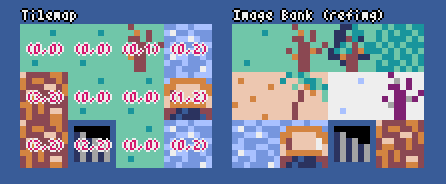
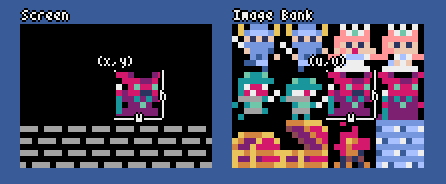
Fixed an instruction in the example #11

diff --git a/pyxel/examples/11_offscreen.py b/pyxel/examples/11_offscreen.py
@@ -69,7 +69,7 @@ def make_blt_figure():
     x = 116
     figure.blt(x, y, image2, 0, 0, image2.width, image2.height)
     text_with_border(figure, x + 1, y - 7, "Image Bank", col, bcol)
-    pset_with_border(figure, x + 47, y + 23, col, bcol)
+    text_with_border(figure, x + 38, y + 16, "(u,v)", col, bcol)
     draw_w_and_h(x, y)
 
     return figure

diff --git a/CHANGELOG.md b/CHANGELOG.md
@@ -1,5 +1,8 @@
 # Change Log
 
+## 1.5.7
+- Fixed an instruction in the example #11
+
 ## 1.5.6
 - Fixed the categories of the Pyxel crates
 - Fixed the key input bug of flip
